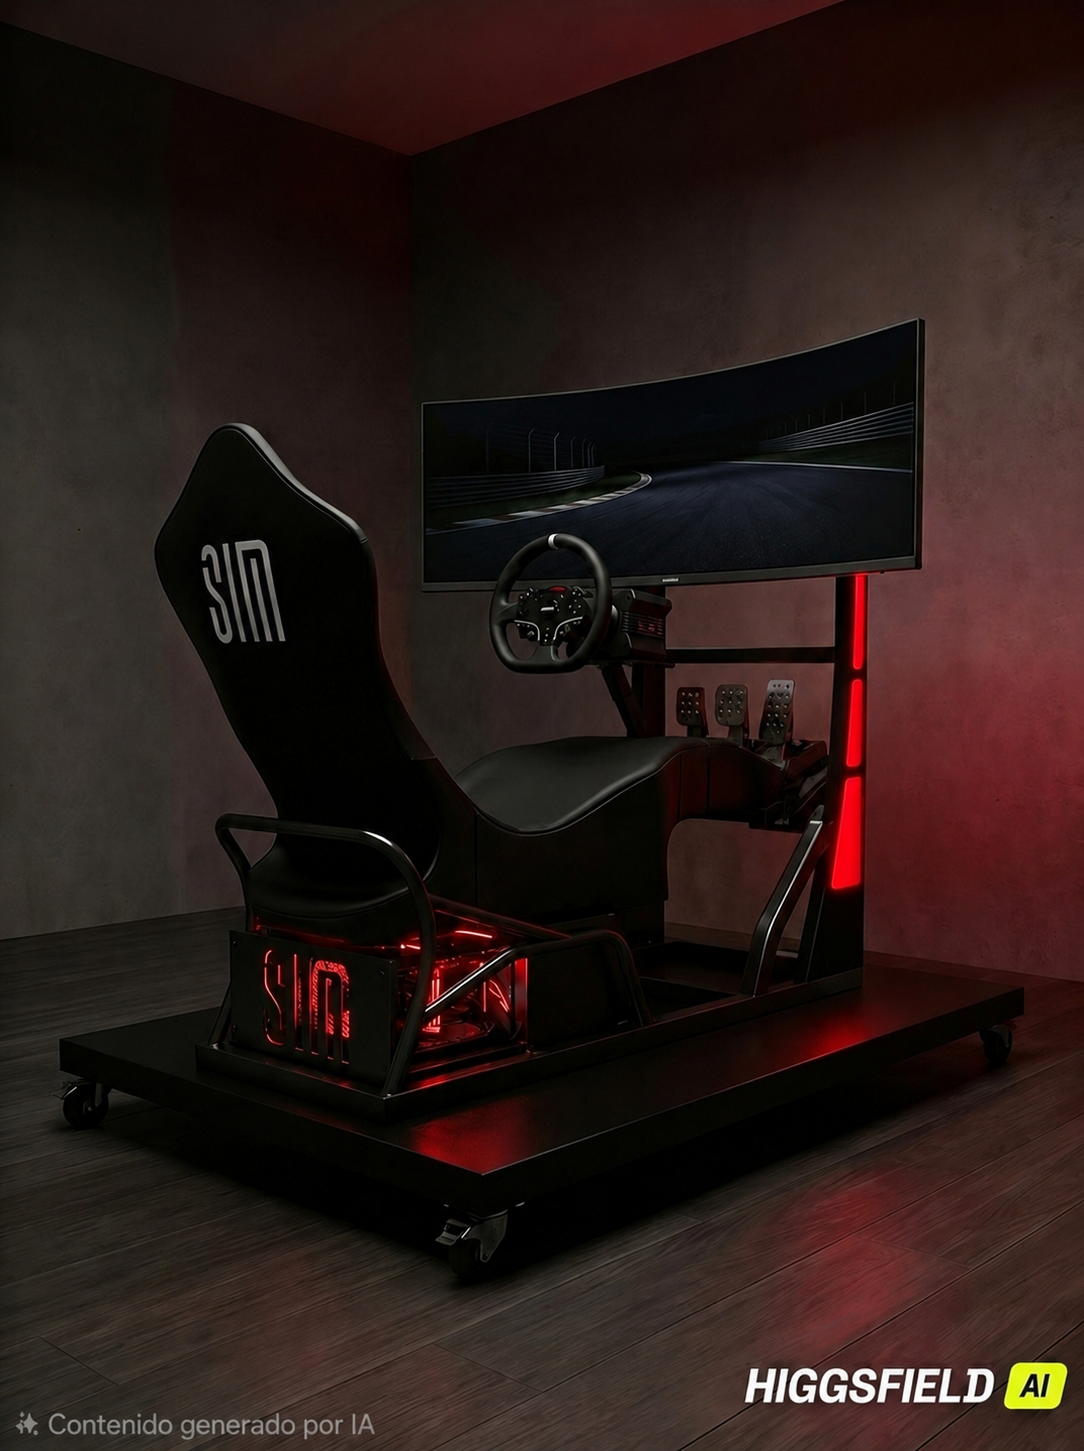
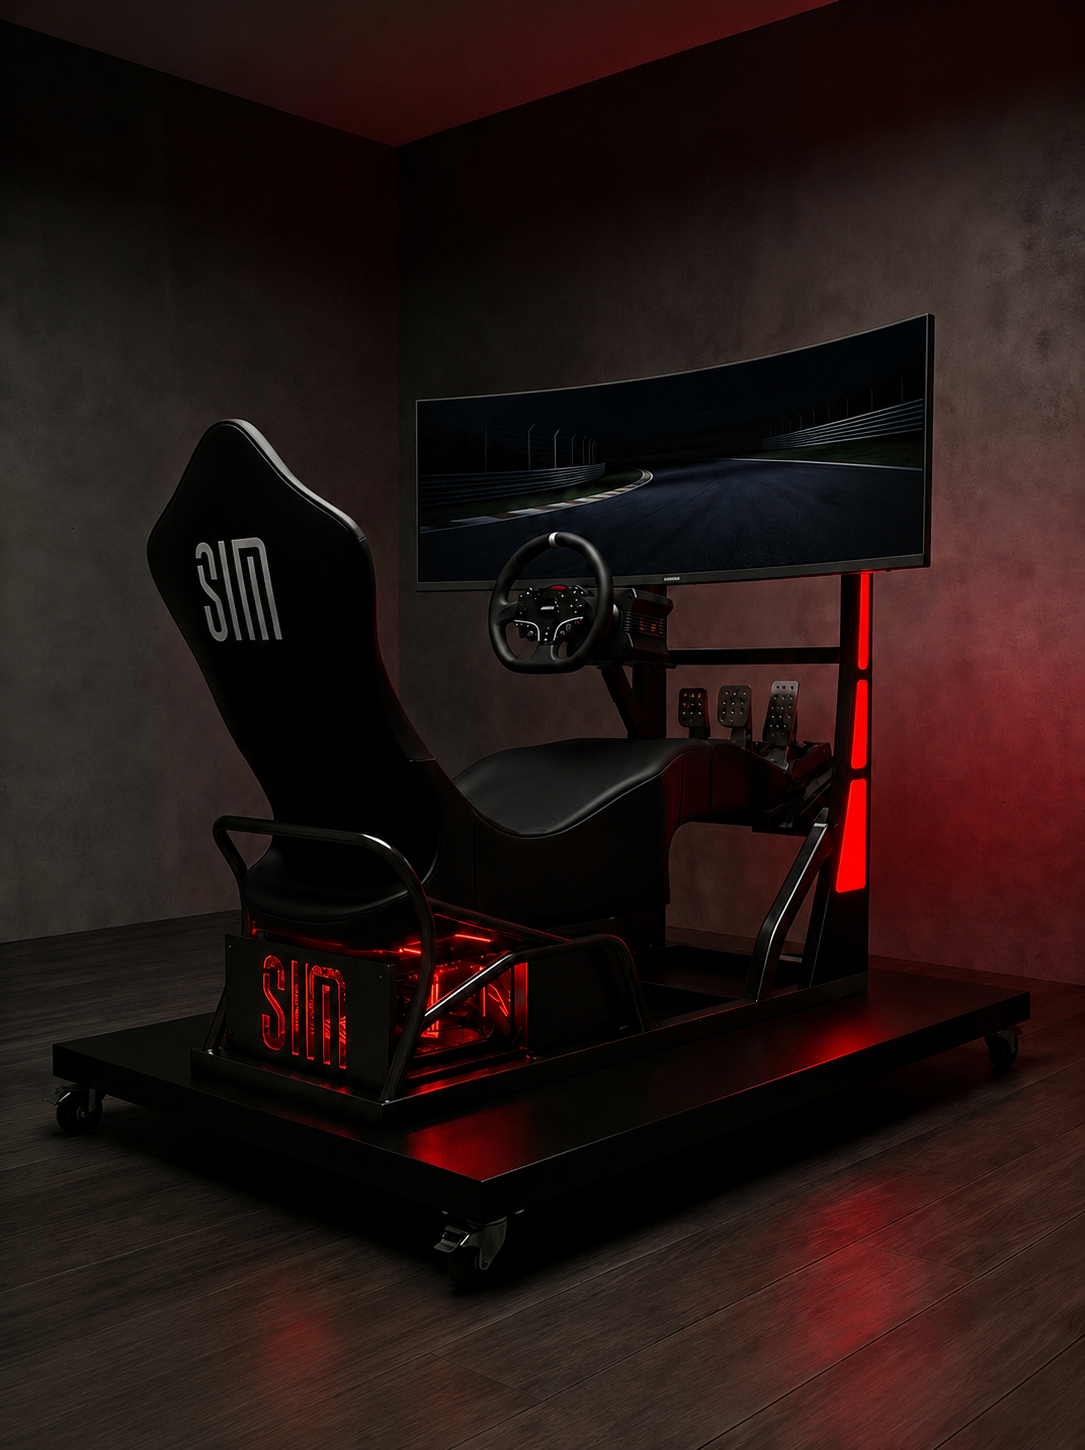
tienda: Simulador F1 en HD (nueva imagen + quality 90)
Reemplaza public/Sim-f1.png por la version HD subida por el usuario y sube la
calidad de next/image a 90 para este card (allowlist images.qualities=[75,90],
requerida por Next 16). No toca la CSP ni los headers de seguridad.

diff --git a/next.config.ts b/next.config.ts
@@ -36,6 +36,12 @@ const securityHeaders = [
 ];
 
 const nextConfig: NextConfig = {
+  images: {
+    // Next 16 exige declarar las calidades permitidas para next/image.
+    // 90 para fotos de producto HD (Simulador F1 en la tienda); 75 es el default
+    // que usan el resto de las imágenes.
+    qualities: [75, 90],
+  },
   async headers() {
     return [
       {

diff --git a/app/tienda/page.tsx b/app/tienda/page.tsx
@@ -175,6 +175,7 @@ export default function TiendaPage() {
                   src="/Sim-f1.png"
                   alt="Simulador F1 SIM Argentina"
                   fill
+                  quality={90}
                   sizes="(max-width: 768px) 100vw, 45vw"
                   className="object-cover"
                 />